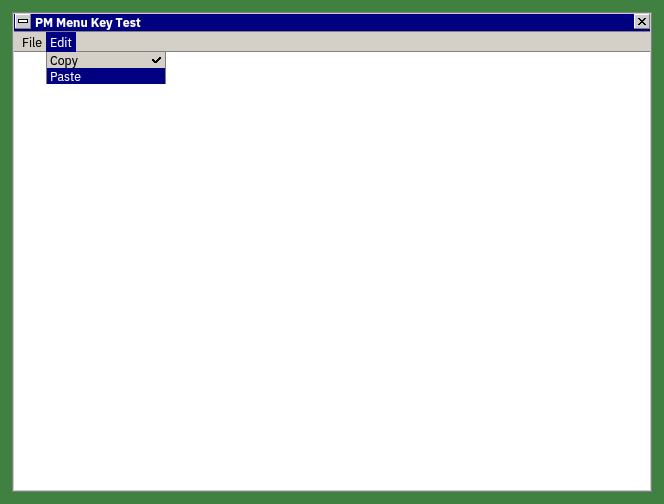
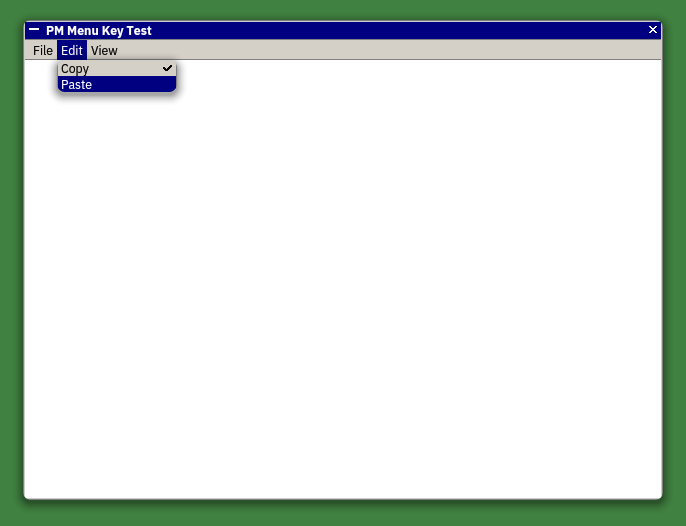
docs(readme): show modern controls and menus
The modern-theme screenshot predated rounded buttons, and the menu shot
now shows a rounded, shadowed pull-down.

Claude-Session: https://claude.ai/code/session_01Ux2KKr7puFgrPeFJFk22fL

Changed region(s): [[0.0, 0.0, 0.994, 0.9821]]

diff --git a/README.md b/README.md
@@ -26,10 +26,10 @@ Warpine runs 32-bit OS/2 (LX format) and 16-bit OS/2 1.x (NE format) programs na
 
 | | |
 |---|---|
-| ![PM Menu Key Test window: the Edit item of the menu bar highlighted and its pull-down dropped, Copy with a check mark at the right and Paste highlighted](doc/screenshots/pm_menukey.png) | ![PM Message Box Test window with an inactive title bar behind a "Message Box Test" box: an information icon, two lines of text and an OK button; the box has a close button but no system menu](doc/screenshots/pm_msgbox.png) |
-| **The menu bar from the keyboard.** F10 started menu mode, Right went to *Edit*, Down dropped its pull-down and moved to *Paste*. *Copy* is checked with `WinCheckMenuItem`; the program hears `WM_INITMENU`, `WM_MENUSELECT` and `WM_MENUEND` as the menu is used. | **Message boxes.** `WinMessageBox` with the information icon over its disabled owner. Without `MB_MOVEABLE` a box has no system menu and stays put; `WinMessageBox2` adds the program's own buttons and icon, and non-modal boxes. |
-| ![PM Built-in Controls Test window: a static label, a Click Me push button, an entry field reading ">>initial textHello, Wörld!", a vertical scroll bar, an empty list box and a multi-line field showing "Line one" and "three" with a caret after "three"](doc/screenshots/pm_controls_typing.png) | ![The modern theme: a "Your name and colour" dialog over the inactive PM Dialog Test window, both with rounded corners, soft shadows, thin edge lines and flat title-bar pictograms; the Name field reads Warp, the Colour list box has Green selected with a dotted focus mark, and OK has a dark default outline next to Cancel](doc/screenshots/pm_modern_theme.png) |
-| **Built-in controls and typing.** The entry field was clicked and typed into (`Hello, Wörld!` at the end, then *Home* and `>>` at the start); in the multi-line field, Enter after "Line one" and `three` started a new line. | **The modern theme, and dialogs from the keyboard.** With `WARPINE_THEME=modern`, frames have rounded corners, a soft shadow and flat chrome; window sizes and metrics stay the same. Ctrl+D, from the window's accelerator table, opened a modal dialog built from a `DLGTEMPLATE` resource; `Warp` was typed, then Tab and Down twice picked *Green*. |
+| ![The modern theme: the PM Menu Key Test window with a rounded corner frame and soft shadow; Edit is highlighted in the menu bar (File, Edit, View) and its pull-down, rounded and shadowed, shows Copy with a check mark and Paste highlighted](doc/screenshots/pm_menukey.png) | ![PM Message Box Test window with an inactive title bar behind a "Message Box Test" box: an information icon, two lines of text and an OK button; the box has a close button but no system menu](doc/screenshots/pm_msgbox.png) |
+| **The menu bar from the keyboard, in the modern theme.** F10 started menu mode, Right went to *Edit*, Down dropped its pull-down and moved to *Paste*; the pull-down is rounded and shadowed like the frame. *Copy* is checked with `WinCheckMenuItem`; the program hears `WM_INITMENU`, `WM_MENUSELECT` and `WM_MENUEND`, and sizes its owner-drawn *View* item with `WM_MEASUREITEM`. | **Message boxes.** `WinMessageBox` with the information icon over its disabled owner. Without `MB_MOVEABLE` a box has no system menu and stays put; `WinMessageBox2` adds the program's own buttons and icon, and non-modal boxes. |
+| ![PM Built-in Controls Test window: a static label, a Click Me push button, an entry field reading ">>initial textHello, Wörld!", a vertical scroll bar, an empty list box and a multi-line field showing "Line one" and "three" with a caret after "three"](doc/screenshots/pm_controls_typing.png) | ![The modern theme: a "Your name and colour" dialog over the inactive PM Dialog Test window, both with rounded corners, soft shadows, thin edge lines and flat title-bar pictograms; the Name field reads Warp, the Colour list box has Green selected with a dotted focus mark, and the rounded OK button has a dark default edge next to a rounded Cancel](doc/screenshots/pm_modern_theme.png) |
+| **Built-in controls and typing.** The entry field was clicked and typed into (`Hello, Wörld!` at the end, then *Home* and `>>` at the start); in the multi-line field, Enter after "Line one" and `three` started a new line. | **The modern theme, and dialogs from the keyboard.** With `WARPINE_THEME=modern`, frames have rounded corners, a soft shadow and flat chrome, and buttons and fields are rounded too; window sizes and metrics stay the same. Ctrl+D, from the window's accelerator table, opened a modal dialog built from a `DLGTEMPLATE` resource; `Warp` was typed, then Tab and Down twice picked *Green*. |
 | ![PM Slider / Value Set Test window: a horizontal slider with a 0 to 5 scale, arrow buttons, a blue ribbon strip and its arm on a detent; a half-filled progress slider; a slider with a red owner-drawn arm; a vertical slider with buttons and ticks; a grid of eight colour items with red selected; a row of value set items with blue selected and an owner-drawn yellow item; and text items Three (selected), a greyed Two and One](doc/screenshots/pm_slider_valueset.png) | ![The "Container trees and grids" window: on the left a tree view with dotted tree lines, a folder "Alpha" with Gamma, A1 and A2 (expanded, holding A21), an expanded "Beta" with items b01 to b11 and a vertical scroll bar; on the right an icon view with six page icons, One, Two, Three, Four, Five and Under, laid out on a grid](doc/screenshots/pm_cnrgrid.png) |
 | **Sliders and value sets.** A scripted session clicked the shaft, dragged the arm, pressed a button and the arrow keys, and Shift+Right moved the arm to a detent; the red arm is drawn by the owner. In the value sets, clicks and keys selected items; "Two" is disabled. | **Container trees and grids.** `WC_CONTAINER` in the tree view with tree lines and expanders (`CA_TREELINE`), and in the icon view arranged on a grid (`CM_SETGRIDINFO`, `CMA_ARRANGEGRID`). Context menus (`WM_CONTEXTMENU`) and the mouse wheel reach containers too. |
 | ![PM Font Test window: lines in IBM Plex Sans, Sans Bold, Mono, Serif Italic 24 and Serif Bold Italic 32, then Japanese, simplified and traditional Chinese and Korean lines and a 24-px mixed line, each underlined in red](doc/screenshots/pm_font_test.png) | ![The built-in CMD.EXE in a "Warpine — CMD.EXE" frame on the PM desktop: ver naming version 0.0.13, mkdir PROJECTS, echo … > HELLO.TXT, a dir listing showing PROJECTS and the 33-byte HELLO.TXT on drive C:, and type HELLO.TXT printing "Hello from the built-in CMD.EXE"](doc/screenshots/cmd_window.png) |
@@ -38,13 +38,13 @@ Warpine runs 32-bit OS/2 (LX format) and 16-bit OS/2 1.x (NE format) programs na
 ### Work in progress
 
 - **Containers and drag and drop** — drags work within a program, between programs and from the host's file manager; lazy drag, drag images, container target emphasis and owner-painted container backgrounds are missing.
-- **Menus** — keyboard menus, menu notifications and item changes work; owner-drawn items keep one fixed row height, and cascading submenus in pull-downs are missing.
+- **Menus** — keyboard menus, menu notifications, item changes and owner-drawn items measured with `WM_MEASUREITEM` work; cascading submenus in pull-downs are missing.
 - **Help** — F1 posts `WM_HELP`, but there is no help viewer yet (the IPF help format is unpublished).
-- **The modern theme** — frames are done; built-in controls, menus and scroll bars still have the classic look, and `classic` stays the default.
+- **The modern theme** — frames, controls and menus are done; scroll bars and sliders still have the classic look, and `classic` stays the default.
 - **More GPI** — rounded box corners, line ends and joins, scaled line widths, rotated glyphs and images under transforms, palettes, and drawing through a child window's presentation space are not implemented.
 - **Games and video** — DIVE (direct framebuffer blitting) and OpenGL are not implemented yet; the spooler reports no printers.
 
-_Screenshots captured from uncommitted changes on top of `848a01b` on 2026-11-23; the text window at the top from uncommitted changes on top of `8f820e1` on 2026-11-20._
+_The menu and modern-theme screenshots captured from commit `b5e7e5a` on 2026-11-23, the others from uncommitted changes on top of `848a01b` on 2026-11-23; the text window at the top from uncommitted changes on top of `8f820e1` on 2026-11-20._
 <!-- screenshots:end -->
 
 ## Key Features
